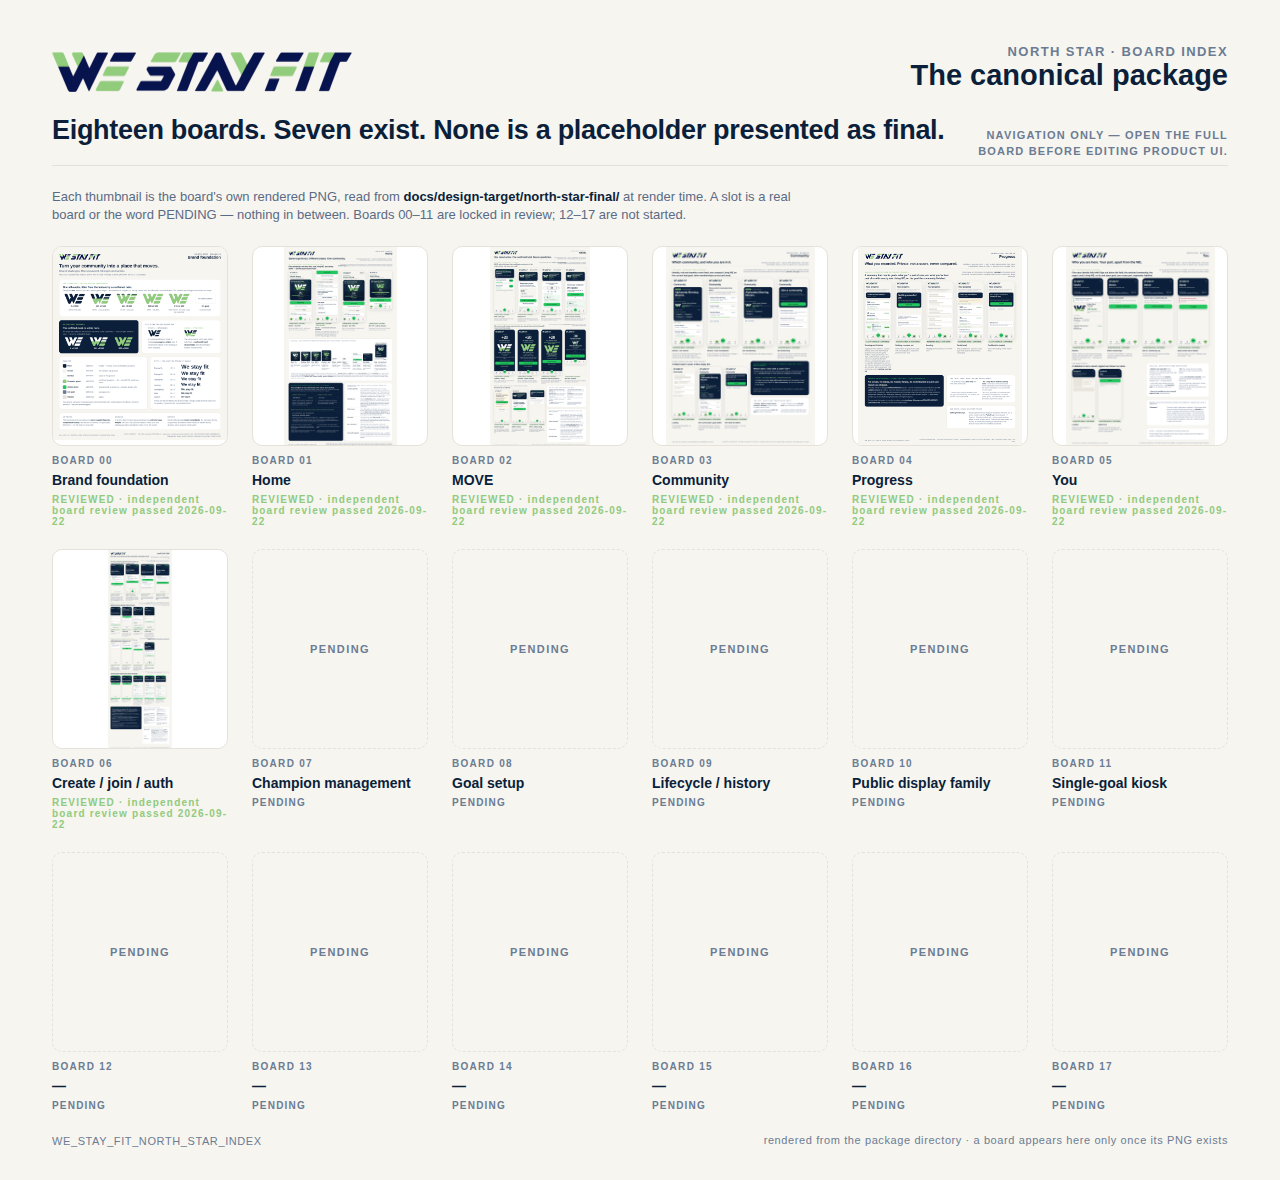
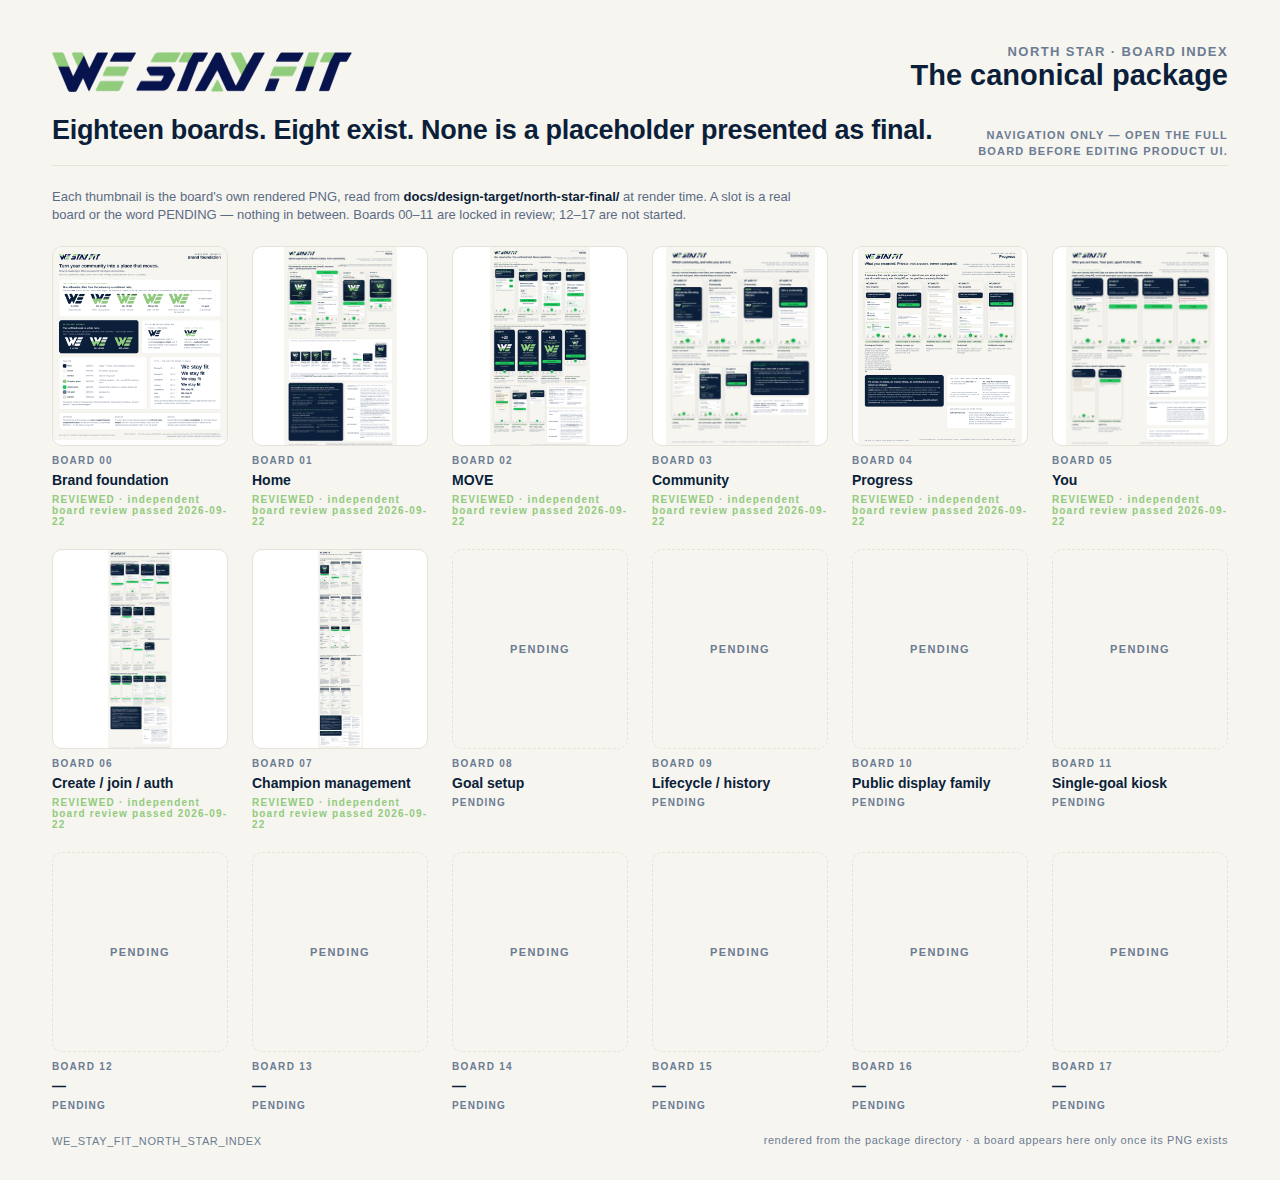
docs(westayfit): Board 07 REVIEWED — status 3 recorded from the Director's verdict 5785727716; 1x review copy cut; INDEX re-rendered with eight boards
- README row 07: REVIEWED (PR #416, artifact 10723837867, blob df1a587); the two
  annotations the verdict requires travel in the board README (W2, ee4e4f8)
- review sentence: Boards 00-07 + INDEX
- review-copies: Board 07 1x copy (byte-identical to the pre-integration render)
- INDEX.png + INDEX 1x copy re-rendered; index.mjs headline "Eight exist"
- PNG bytes untouched: blob df1a5870911edaf8448675d1dc8fbaca2ec12ef6 as reviewed

Claude-Session: https://claude.ai/code/session_017cby7B21o4bFbnpsa1ciRV

Changed region(s): [[0.2188, 0.0915, 0.75, 0.122], [0.25, 0.4576, 0.2812, 0.6407], [0.1875, 0.6712, 0.3125, 0.7017]]

diff --git a/docs/design-target/north-star-final/README.md b/docs/design-target/north-star-final/README.md
@@ -49,12 +49,14 @@ board gets treated as accepted when only its source screens were:
    checked it line by line against the lock verdict (recorded in the board's
    README).
 3. **Independent board review** — the Program Director has visually reviewed
-   the rendered board itself. **Boards 00–06 + INDEX have it as of
+   the rendered board itself. **Boards 00–07 + INDEX have it as of
    2026-09-22** — Boards 00–05 + INDEX by Program Director verdict
    `5783373780`, a pixel review of the commit-pinned 1× review copies at
    `a912773` (*PASS as the canonical reconstructed 00–05 package*); Board 06
    by Creative Director verdict `5784845039` on PR #404, a pixel review of the
-   exported original at `d6aba97`. It clears this status for these
+   exported original at `d6aba97`; Board 07 by Creative Director verdict
+   `5785727716` on PR #416, a pixel review of the exported original at
+   `fe82c1e` (artifact `10723837867`, blob `df1a587`). It clears this status for these
    reconstructed artifacts only; it does not newly accept or stage the
    underlying app pages, and it authorises no deployment.
 
@@ -99,7 +101,7 @@ unaffected.
 | 04 | Progress | **REVIEWED** · independent board review passed 2026-09-22 (`5783373780`) | `5771310017` | accepted build (Phase A); dated history seam | [`board-04/…BOARD_04_PROGRESS_FINAL.png`](board-04/WE_STAY_FIT_NORTH_STAR_BOARD_04_PROGRESS_FINAL.png) | `a912773` | Five accepted Page 4 AFTER frames read in place. "Nothing finished yet" has no standalone accepted frame and is shown inside the partial-read frame, flagged. **2026-09-22 (W2, #399):** the `Running and finished` caption states the frame is the whole first viewport, uncropped, and why the card beneath is cut (P-2). No pixel changed. |
 | 05 | You | **REVIEWED** · independent board review passed 2026-09-22 (`5783373780`) | `5771338856` | accepted build | [`board-05/…BOARD_05_YOU_FINAL.png`](board-05/WE_STAY_FIT_NORTH_STAR_BOARD_05_YOU_FINAL.png) | `a912773` | Six accepted Page 5 AFTER frames read in place; every lock state has one. **2026-09-22 (W2, #399):** the board's own lead line no longer claims a *dominant* mark; the lock's quoted wording is unaltered and a differences panel records the gap (P-4). |
 | 06 | Create / join / auth | **REVIEWED** · independent board review passed 2026-09-22 (`5784845039`) | `5771368550` | current build review — identity accepted at `3562156` and captured later; `/join/[joinCode]` awaiting its page verdict; `/start-community` target redesign drawn, not implemented | [`board-06/…BOARD_06_CREATE_JOIN_AUTH_FINAL.png`](board-06/WE_STAY_FIT_NORTH_STAR_BOARD_06_CREATE_JOIN_AUTH_FINAL.png) | `d6aba97` | W2 (PR #404); reviewed from the exported original (artifact `10721560350`, blob `3f0b556`); the PNG's own footer still reads its submission label. |
-| 07 | Champion management | PENDING | `5771412585` | current Manage-sheet truth | — | — | Champion administration beyond the current sheet is an unbuilt seam. |
+| 07 | Champion management | **REVIEWED** · independent board review passed 2026-09-22 (`5785727716`) | `5771412585` | current Manage-sheet truth — the three Home frames are the accepted Page 1 captured later; the fourteen sheet frames are current build; the expanded-details / QR / screens paths are disclosed, not pictured | [`board-07/…BOARD_07_CHAMPION_MANAGEMENT_FINAL.png`](board-07/WE_STAY_FIT_NORTH_STAR_BOARD_07_CHAMPION_MANAGEMENT_FINAL.png) | `ee4e4f8` | W2 (PR #416); reviewed from the exported original (artifact `10723837867`, blob `df1a587`); the PNG's own footer still reads its submission label. Two annotations travel with it (board README): the lock's "member directory not built" line is source-scoped to `5356e3c` and does not retire the separate #390 work; the event-first dense sheet and its invite-not-ready caveat remain product findings, not a premium standard. Champion administration beyond the current sheet is an unbuilt seam. |
 | 08 | Goal setup | PENDING | `5771436211` | staging-only current-build truth | — | — | |
 | 09 | Lifecycle / history | PENDING | `5771469193` | lifecycle truth | — | — | |
 | 10 | Public display family | PENDING | `5771496484` | target | — | — | Device classes are design targets, not installed hardware. |
